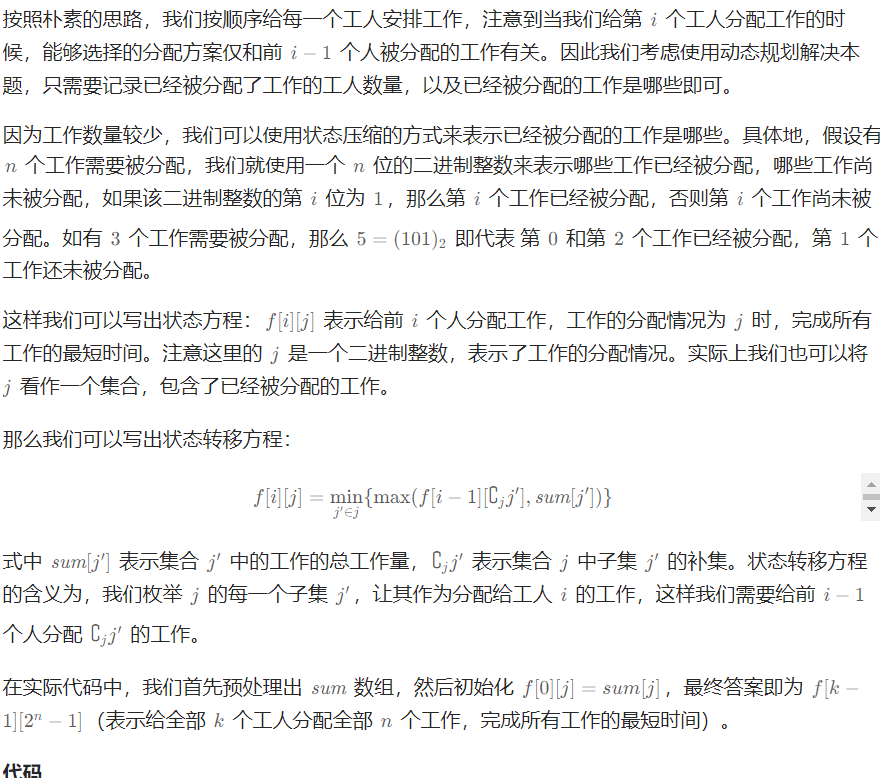
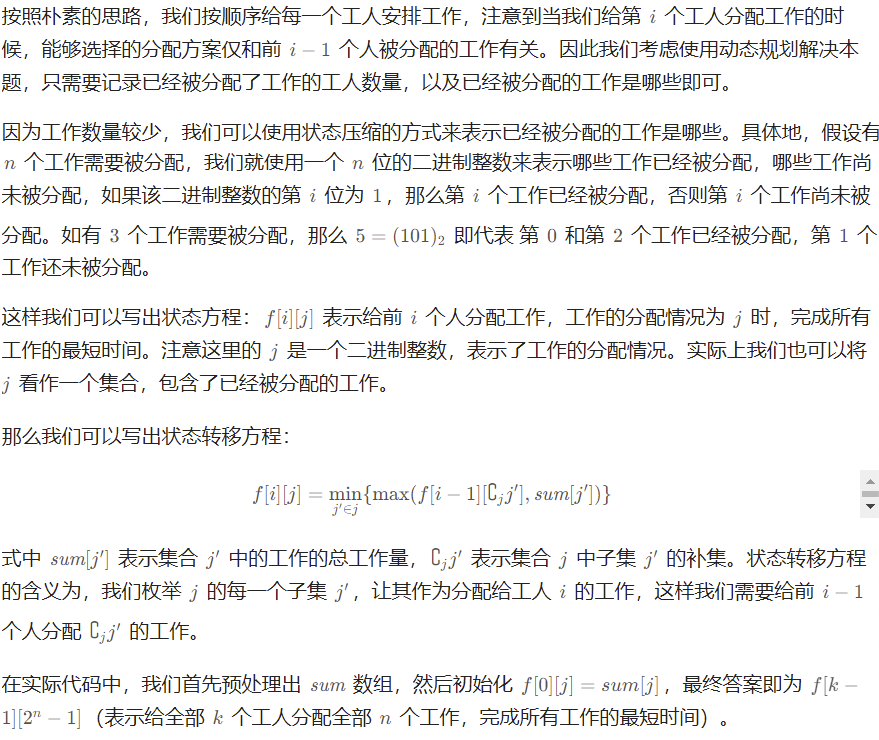
20231226

Changed region(s): [[0.0, 0.1554, 1.0, 1.0], [0.0, 0.0, 0.9829, 0.1243], [0.9829, 0.6216, 1.0, 0.6838]]

diff --git a/数据结构与算法/004.左程云算法通关/002.必备/026.前缀树原理和代码详解.md b/数据结构与算法/004.左程云算法通关/002.必备/026.前缀树原理和代码详解.md
@@ -1,6 +1,6 @@
 ---
 date: 2023-12-26 16:35
-modified: 2023-12-26 17:13
+modified: 2023-12-26 20:58
 ---
 
 >前置知识：知道什么是树结构，比如二叉树：[[008.算法和数据结构简介|数据结构分类]]、[[017.二叉树及其三种序的递归实现|二叉树基本概念]]；知道为什么推荐静态数组的方式实现各种结构：[[001.算法笔试中处理输入和输出|推荐静态空间的实现]]；知道哈希表怎么用：[[008.哈希表、有序表和比较器的用法#哈希表的用法|哈希表的使用]]
@@ -194,5 +194,166 @@ func splitWithSpace(data []byte, atEOF bool) (advance int, token []byte, err err
 
 推荐！不仅笔试，就连比赛也能保证使用
 
-1. 一切都是静态数组来实现，提交准备好够用的空间
-2. 如果路的可能性范围较大，就用每一位的信息建树。下节课前缀树的题目里展示
+```go
+package main
+
+import (
+	"bufio"
+	"fmt"
+	"os"
+	"strconv"
+	"unicode"
+)
+
+const (
+	MAXN = 150001
+)
+
+var (
+	// 四个变量实现 Trie
+	tree = [MAXN][26]int{}
+	pass = [MAXN]int{}
+	end  = [MAXN]int{}
+	cnt  = 1
+
+	n    int
+	op   string
+	word string
+)
+
+func main() {
+	in := bufio.NewScanner(os.Stdin)
+	in.Split(splitWithSpace)
+	out := bufio.NewWriterSize(os.Stdout, 4096)
+	for in.Scan() {
+		n, _ = strconv.Atoi(in.Text())
+		if n <= 0 {
+			continue
+		}
+		for ; n > 0; n-- {
+			in.Scan()
+			op = in.Text()
+			in.Scan()
+			word = in.Text()
+			switch op {
+			case "1":
+				Insert(word)
+			case "2":
+				Delete(word)
+			case "3":
+				if Search(word) > 0 {
+					fmt.Fprintln(out, "YES")
+				} else {
+					fmt.Fprintln(out, "NO")
+				}
+			case "4":
+				fmt.Fprintln(out, PrefixNumber(word))
+			}
+		}
+		Clear()
+	}
+	out.Flush()
+}
+
+// 将字符串 word 插入前缀树中
+func Insert(word string) {
+	n := len(word)
+	treeIdx := 0
+	pass[treeIdx]++
+	for i := 0; i < n; i++ {
+		idx := word[i] - 'a'
+		if tree[treeIdx][idx] == 0 {
+			tree[treeIdx][idx] = cnt // 没有路就新建节点
+			cnt++
+		}
+		treeIdx = tree[treeIdx][idx]
+		pass[treeIdx]++
+	}
+	end[treeIdx]++
+}
+
+// 返回前缀树中字符串 word 的实例个数
+func Search(word string) int {
+	n := len(word)
+	treeIdx := 0
+	for i := 0; i < n; i++ {
+		treeIdx = tree[treeIdx][word[i]-'a']
+		if treeIdx == 0 {
+			return 0
+		}
+	}
+	return end[treeIdx]
+}
+
+// 返回前缀树中以 prefix 为前缀的字符串个数
+func PrefixNumber(prefix string) int {
+	n := len(prefix)
+	treeIdx := 0
+	for i := 0; i < n; i++ {
+		treeIdx = tree[treeIdx][prefix[i]-'a']
+		if treeIdx == 0 {
+			return 0
+		}
+	}
+	return pass[treeIdx]
+}
+
+// 从前缀树中移除字符串 word（移除 1 个）
+func Delete(word string) {
+	if Search(word) == 0 {
+		return
+	}
+	n := len(word)
+	treeIdx := 0
+	pass[treeIdx]--
+	for i := 0; i < n; i++ {
+		idx := word[i] - 'a'
+		pass[tree[treeIdx][idx]]--
+		if pass[tree[treeIdx][idx]] == 0 {
+			tree[treeIdx][idx] = 0
+			return
+		}
+		treeIdx = tree[treeIdx][idx]
+	}
+	end[treeIdx]--
+}
+
+// 清除 Trie 树的信息，方便下次使用
+func Clear() {
+	for i := 0; i < cnt; i++ {
+		for j := 0; j < 26; j++ {
+			tree[i][j] = 0
+		}
+		pass[i] = 0
+		end[i] = 0
+	}
+	cnt = 1
+}
+
+func splitWithSpace(data []byte, atEOF bool) (advance int, token []byte, err error) {
+	// 跳过连续的空白字符
+	start := 0
+	for start < len(data) && unicode.IsSpace(rune(data[start])) {
+		start++
+	}
+
+	// 使用unicode.IsSpace来判断是否是空白字符
+	for i := start; i < len(data); i++ {
+		if unicode.IsSpace(rune(data[i])) {
+			return i + 1, data[start:i], nil
+		}
+	}
+
+	// 如果未找到空白字符，且已经到达文件末尾，返回剩余的内容
+	if atEOF && len(data[start:]) > 0 {
+		return len(data), data[start:], nil
+	}
+
+	// 如果未找到空白字符且未到达文件末尾，则要求继续读取更多数据
+	return 0, nil, nil
+}
+```
+
+一切都是静态数组来实现，提交准备好够用的空间（`MAXN` 要足够：最多是 `字符串长度 * 字符串数量`，但是前缀树又有大量的空间压缩，所以一般情况下要远远小于这个数，可以一开始给一个够用的，然后逐渐减少量，试出来一个合适的）
+
+如果路的可能性范围较大，因为不用动态结构就不能用哈希表了。需要用每一位的信息建树，如：第 1789 条路建树为 `1->7->8->9->#`，相当于 `tree[MAXN][11]`，当然也可以用其他进制。这样的话 `MAXN` 也要适量增大（[[027.前缀树的相关题目#题目1.接头密匙|这道题]]）

diff --git a/数据结构与算法/004.左程云算法通关/002.必备/027.前缀树的相关题目.md b/数据结构与算法/004.左程云算法通关/002.必备/027.前缀树的相关题目.md
@@ -1,0 +1,164 @@
+---
+date: 2023-12-26 20:09
+modified: 2023-12-26 21:58
+---
+
+>前置知识：[[026.前缀树原理和代码详解#静态数组的实现方式|静态空间方式实现前缀树]]、[[012.异或运算的骚操作|异或运算]]
+
+# 题目1.接头密匙
+
+## 测试链接
+
+[接头密匙](https://www.nowcoder.com/practice/c552d3b4dfda49ccb883a6371d9a6932)
+
+## 答案
+
+```go
+package main
+
+import (
+	"strconv"
+	"strings"
+)
+
+const (
+	MAXN = 2000001
+	ROAD_COUNT = 12 // 0-9 # -
+)
+
+var (
+	tree = [MAXN][ROAD_COUNT]int{}
+	pass = [MAXN]int{}
+	end  = [MAXN]int{}
+	cnt  = 1
+)
+
+/**
+ * @param b int整型二维数组
+ * @param a int整型二维数组
+ * @return int整型一维数组
+ */
+func countConsistentKeys(b [][]int, a [][]int) []int {
+	ans := make([]int, len(b))
+	for _, arr := range a {
+		Insert(calcStr(arr))
+	}
+	for i, arr := range b {
+		ans[i] = PrefixNumber(calcStr(arr))
+	}
+	Clear()
+	return ans
+}
+
+func calcStr(arr []int) string {
+	var builder strings.Builder
+	n := len(arr)
+	for i := 1; i < n; i++ {
+		builder.WriteString(strconv.Itoa(arr[i] - arr[i-1]))
+		builder.WriteByte('#')
+	}
+	return builder.String()
+}
+
+func Insert(word string) {
+	n := len(word)
+	treeIdx := 0
+	pass[treeIdx]++
+	for i := 0; i < n; i++ {
+		idx := getIdx(word[i])
+		if tree[treeIdx][idx] == 0 {
+			tree[treeIdx][idx] = cnt
+			cnt++
+		}
+		treeIdx = tree[treeIdx][idx]
+		pass[treeIdx]++
+	}
+	end[treeIdx]++
+}
+
+func Search(word string) int {
+	n := len(word)
+	treeIdx := 0
+	for i := 0; i < n; i++ {
+		treeIdx = tree[treeIdx][getIdx(word[i])]
+		if treeIdx == 0 {
+			return 0
+		}
+		
+	}
+	return end[treeIdx]
+}
+
+func PrefixNumber(word string) int {
+	n := len(word)
+	treeIdx := 0
+	for i := 0; i < n; i++ {
+		treeIdx = tree[treeIdx][getIdx(word[i])]
+		if treeIdx == 0 {
+			return 0
+		}
+		
+	}
+	return pass[treeIdx]
+}
+
+func Delete(word string) {
+	if Search(word) == 0 {
+		return
+	}
+	n := len(word)
+	treeIdx := 0
+	pass[treeIdx]--
+	for i := 0; i < n; i++ {
+		idx := getIdx(word[i])
+		pass[tree[treeIdx][idx]]--
+		if pass[tree[treeIdx][idx]] == 0 {
+			tree[treeIdx][idx] = 0
+			return
+		}
+		treeIdx = tree[treeIdx][idx]
+	}
+	end[treeIdx]--
+}
+
+func Clear() {
+	for i := 0; i < cnt; i++ {
+		for j := 0; j < ROAD_COUNT; j++ {
+			tree[i][j] = 0
+		}
+		pass[i] = 0
+		end[i] = 0
+	}
+	cnt = 1
+}
+
+func getIdx(char byte) int {
+	if char == '-' {
+		return 10
+	}
+	if char == '#' {
+		return 11
+	}
+	return int(char - '0')
+}
+```
+
+## 复杂度
+
+时间复杂度，O(a 数组的数字个数 * 10) + O(b 数组的数字个数 * 10)
+空间复杂度，O(a 数组的数字个数 * 10)，这是树上的节点数量
+
+
+# 题目 2.数组中两个数的最大异或值
+
+## 题目描述
+
+给你一个整数数组 `nums` ，返回 `nums[i] XOR nums[j]` 的最大运算结果，其中 `0 ≤ i ≤ j < n`
+
+## 测试链接
+
+[421.数组中两个数的最大异或值](https://leetcode.cn/problems/maximum-xor-of-two-numbers-in-an-array/)
+
+## 答案
+
+

diff --git a/数据结构与算法/004.左程云算法通关/002.必备/025.根据数据量猜解法的技巧-天字第一号重要技巧.md b/数据结构与算法/004.左程云算法通关/002.必备/025.根据数据量猜解法的技巧-天字第一号重要技巧.md
@@ -1,6 +1,6 @@
 ---
 date: 2023-12-26 10:55
-modified: 2023-12-26 16:36
+modified: 2023-12-26 20:56
 ---
 
 >前置知识：[[007.时间复杂度和空间复杂度|时间复杂度]]、[[020.常见经典递归过程解析#题目3.返回没有重复值数组的全部排列|全排列递归代码的执行细节]]

diff --git a/数据结构与算法/001.代码随想录/010.动态规划/002.背包问题.md b/数据结构与算法/001.代码随想录/010.动态规划/002.背包问题.md
@@ -1,6 +1,6 @@
 ---
 date: 2023-11-07 14:49
-modified: 2023-12-15 15:51
+modified: 2023-12-26 22:04
 ---
 
 ![[背包问题分类.png]]
@@ -169,6 +169,7 @@ func canPartitionKSubsets(nums []int, k int) bool {
 ```
 
 # 完成所有工作的最短时间
+
 ![[Pasted image 20231108150925.png]]
 
 ```go

diff --git a/未归档/markdown公式.md b/未归档/markdown公式.md
@@ -1,6 +1,6 @@
 ---
 date: 2023-11-14 11:13
-modified: 2023-12-26 10:32
+modified: 2023-12-26 20:54
 ---
 
 出处： [博客园](https://www.cnblogs.com/bytesfly/p/markdown-formula.html)

diff --git a/数据结构与算法/004.左程云算法通关/002.必备/012.异或运算的骚操作.md b/数据结构与算法/004.左程云算法通关/002.必备/012.异或运算的骚操作.md
@@ -1,6 +1,6 @@
 ---
 date: 2023-12-18 17:01
-modified: 2023-12-26 10:24
+modified: 2023-12-26 21:58
 ---
 
 >前置知识：[[003.二进制和位运算|二进制和位运算]]
